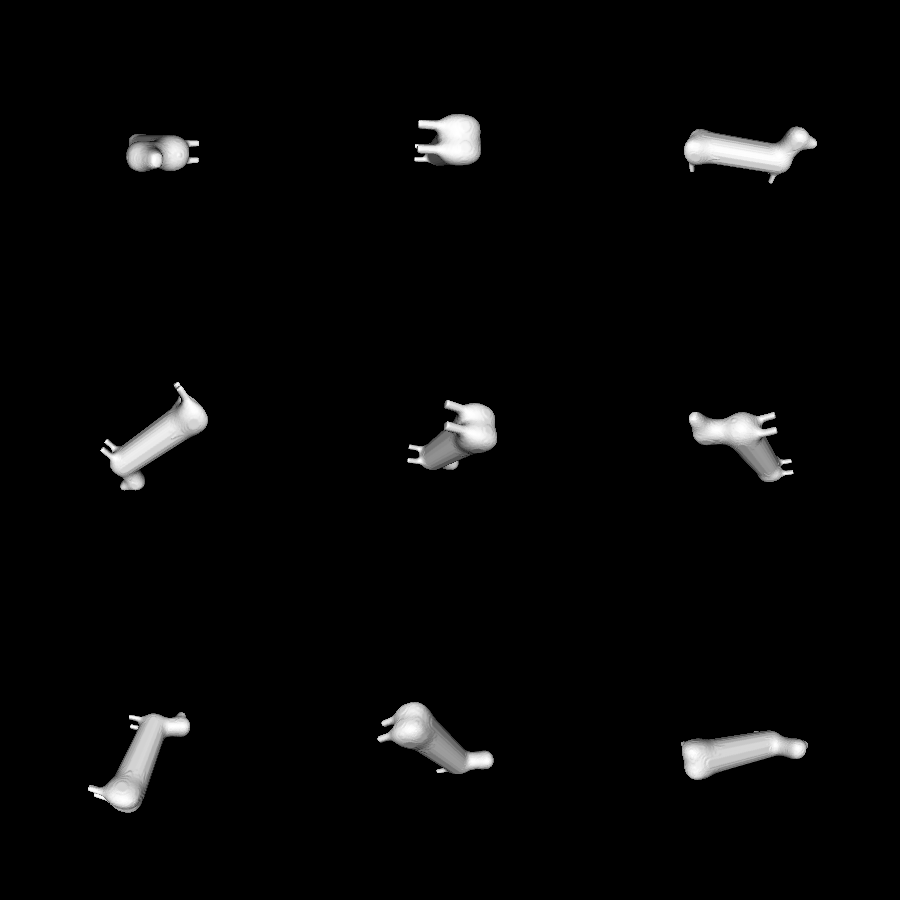
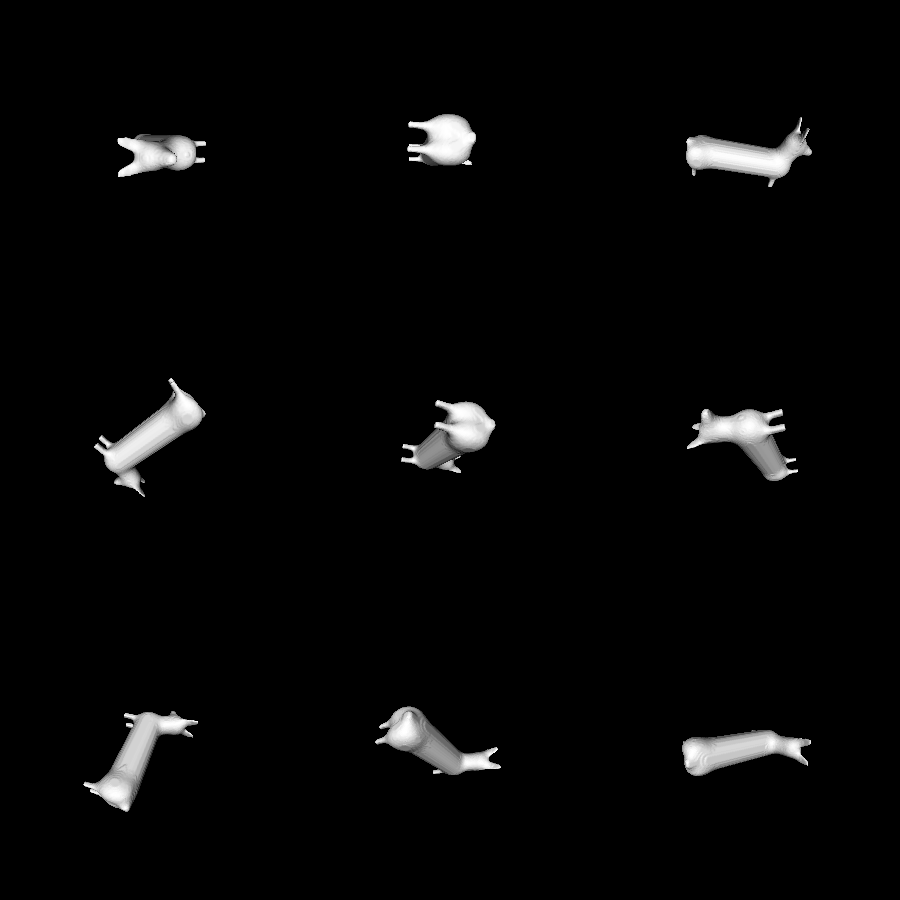
add tail, improve snout, add ears

diff --git a/examples/decoration/corgi/main.go b/examples/decoration/corgi/main.go
@@ -18,11 +18,21 @@ const (
 
 	HeadRadius = 0.22
 
-	SnoutLargeRadius = 0.15
-	SnoutSmallRadius = 0.1
+	NubRadius  = 0.1
+	NubXOffset = -0.3
+
+	SnoutLargeRadius = 0.14
+	SnoutSmallRadius = 0.12
 	SnoutInset       = 0.05
-	SnoutZOffset     = -0.05
+	SnoutZOffset     = -0.07
 	SnoutLength      = 0.27
+
+	EarYOffset   = 0.12
+	EarZOffset   = 0.12
+	EarTheta     = 0.1 * math.Pi
+	EarWidth     = 0.24
+	EarHeight    = 0.4
+	EarThickness = 0.06
 
 	LegInset               = 0.15
 	LegRadius              = 0.07
@@ -38,7 +48,7 @@ const (
 func main() {
 	log.Println("creating body solid...")
 	model := SmoothJoin(0.1, MakeBody(), MakeHeadNeck(), MakeLegs(), MakeHindLegMuscles(),
-		MakeSnout())
+		MakeSnout(), MakeNub(), MakeEars())
 	log.Println("creating mesh...")
 	mesh := model3d.SolidToMesh(model, 0.01, 0, -1, 5)
 	log.Println("saving...")
@@ -113,8 +123,35 @@ func MakeSnout() model3d.Solid {
 	}
 	return &SnoutSolid{
 		P1: origin,
-		P2: origin.Add(model3d.Coord3D{X: SnoutLength}),
+		P2: origin.Add(model3d.Coord3D{X: SnoutLength * math.Sin(NeckTheta),
+			Z: -SnoutLength * math.Cos(NeckTheta)}),
 	}
+}
+
+func MakeNub() model3d.Solid {
+	return &model3d.SphereSolid{
+		Center: model3d.Coord3D{X: NubXOffset, Z: BodyRadius - NubRadius},
+		Radius: NubRadius,
+	}
+}
+
+func MakeEars() model3d.Solid {
+	origin := model3d.Coord3D{
+		X: BodyLength + NeckLength*math.Cos(NeckTheta),
+		Z: NeckLength*math.Sin(NeckTheta) + EarZOffset,
+	}
+	var res model3d.JoinedSolid
+	for _, y := range []float64{-EarYOffset, EarYOffset} {
+		yDiff := EarHeight * math.Sin(EarTheta)
+		if y < 0 {
+			yDiff *= -1
+		}
+		res = append(res, &EarSolid{
+			Base: origin.Add(model3d.Coord3D{Y: y}),
+			Tip:  origin.Add(model3d.Coord3D{Y: y + yDiff, Z: EarHeight * math.Cos(EarTheta)}),
+		})
+	}
+	return res
 }
 
 type HindLegMuscleSolid struct {
@@ -173,10 +210,10 @@ func (s *SnoutSolid) Contains(c model3d.Coord3D) bool {
 	c2 := model3d.Coord2D{X: b1.Dot(c), Y: b2.Dot(c)}
 
 	// Smooth tip, and make it "wide".
-	c2.X /= math.Pow(1-frac, 0.2)
-	c2.Y /= math.Pow(1-frac, 0.3)
+	c2.X /= math.Pow(1-frac, 0.3) * SnoutLargeRadius
+	c2.Y /= math.Pow(1-frac, 0.3) * SnoutSmallRadius
 
-	return c2.Norm() < SnoutLargeRadius
+	return c2.Norm() < 1
 }
 
 func (s *SnoutSolid) boundingCylinder() *model3d.CylinderSolid {
@@ -184,5 +221,49 @@ func (s *SnoutSolid) boundingCylinder() *model3d.CylinderSolid {
 		P1:     s.P1,
 		P2:     s.P2,
 		Radius: SnoutLargeRadius,
+	}
+}
+
+type EarSolid struct {
+	Base model3d.Coord3D
+	Tip  model3d.Coord3D
+}
+
+func (e *EarSolid) Min() model3d.Coord3D {
+	return e.boundingCylinder().Min()
+}
+
+func (e *EarSolid) Max() model3d.Coord3D {
+	return e.boundingCylinder().Max()
+}
+
+func (e *EarSolid) Contains(c model3d.Coord3D) bool {
+	cyl := e.boundingCylinder()
+	if !cyl.Contains(c) {
+		return false
+	}
+
+	c = c.Sub(e.Base)
+
+	diff := e.Tip.Sub(e.Base)
+	frac := diff.Dot(c) / diff.Dot(diff)
+	if frac < 0 || frac > 1 {
+		return false
+	}
+
+	// Curved tip
+	frac = math.Pow(1-frac, 0.3)
+
+	xAxis := model3d.Coord3D{Y: 1}.ProjectOut(diff).Normalize()
+	yAxis := diff.Cross(xAxis).Normalize()
+	return math.Abs(xAxis.Dot(c)) < frac*EarWidth/2 &&
+		math.Abs(yAxis.Dot(c)) < EarThickness/2
+}
+
+func (e *EarSolid) boundingCylinder() *model3d.CylinderSolid {
+	return &model3d.CylinderSolid{
+		P1:     e.Base,
+		P2:     e.Tip,
+		Radius: EarWidth / 2,
 	}
 }
